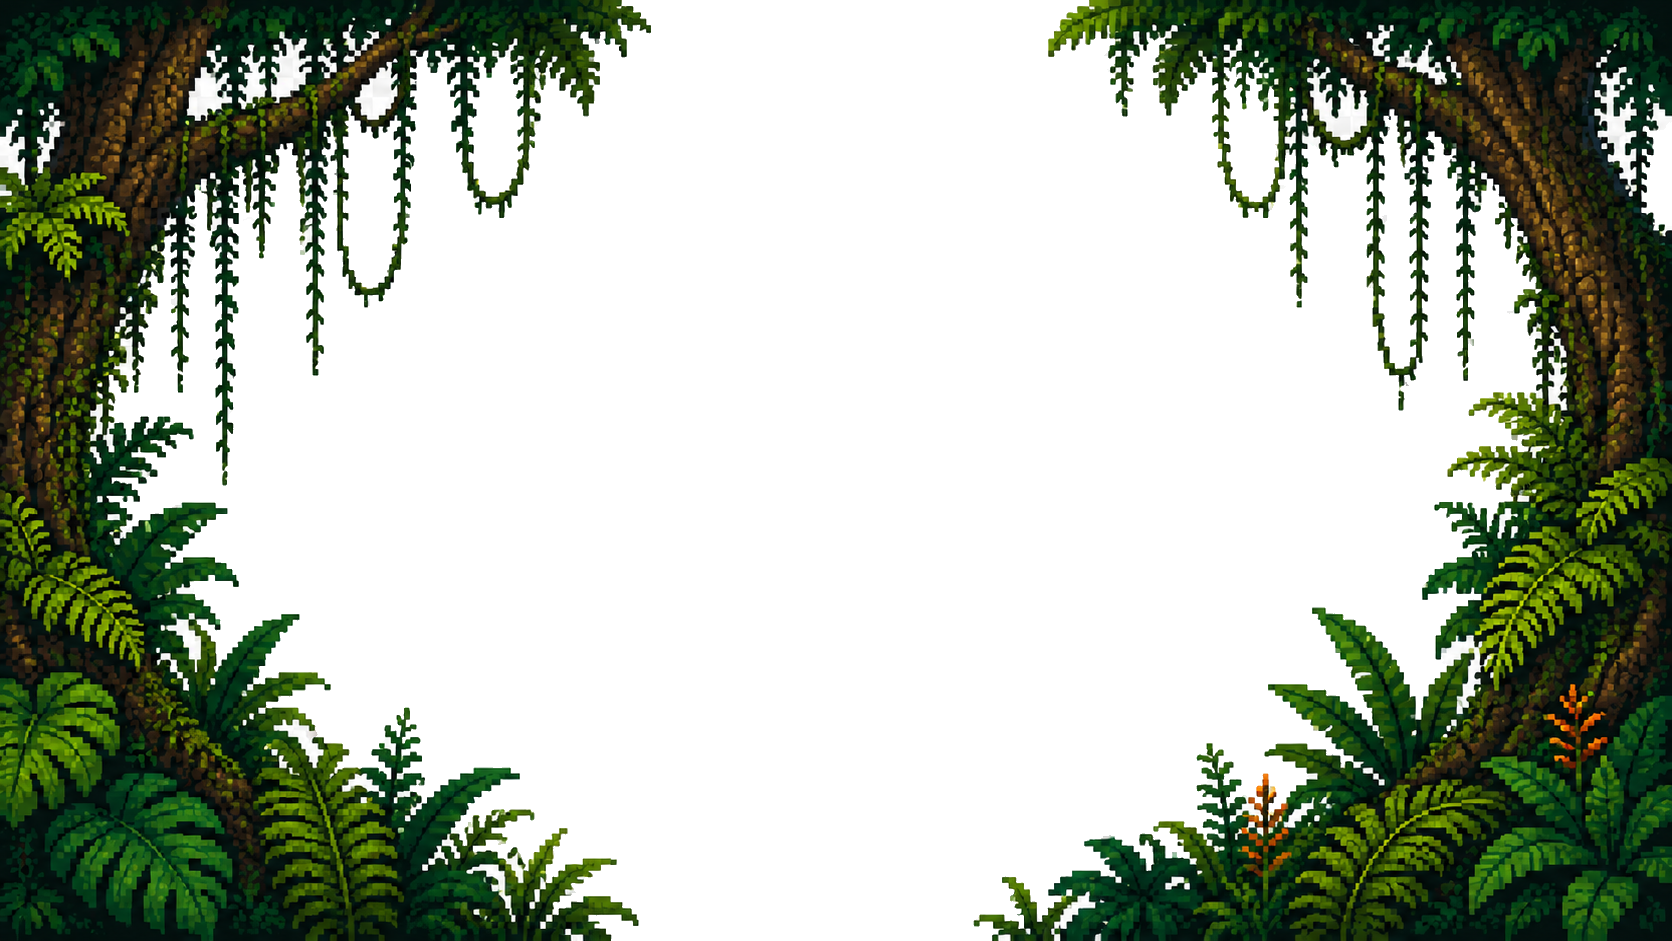
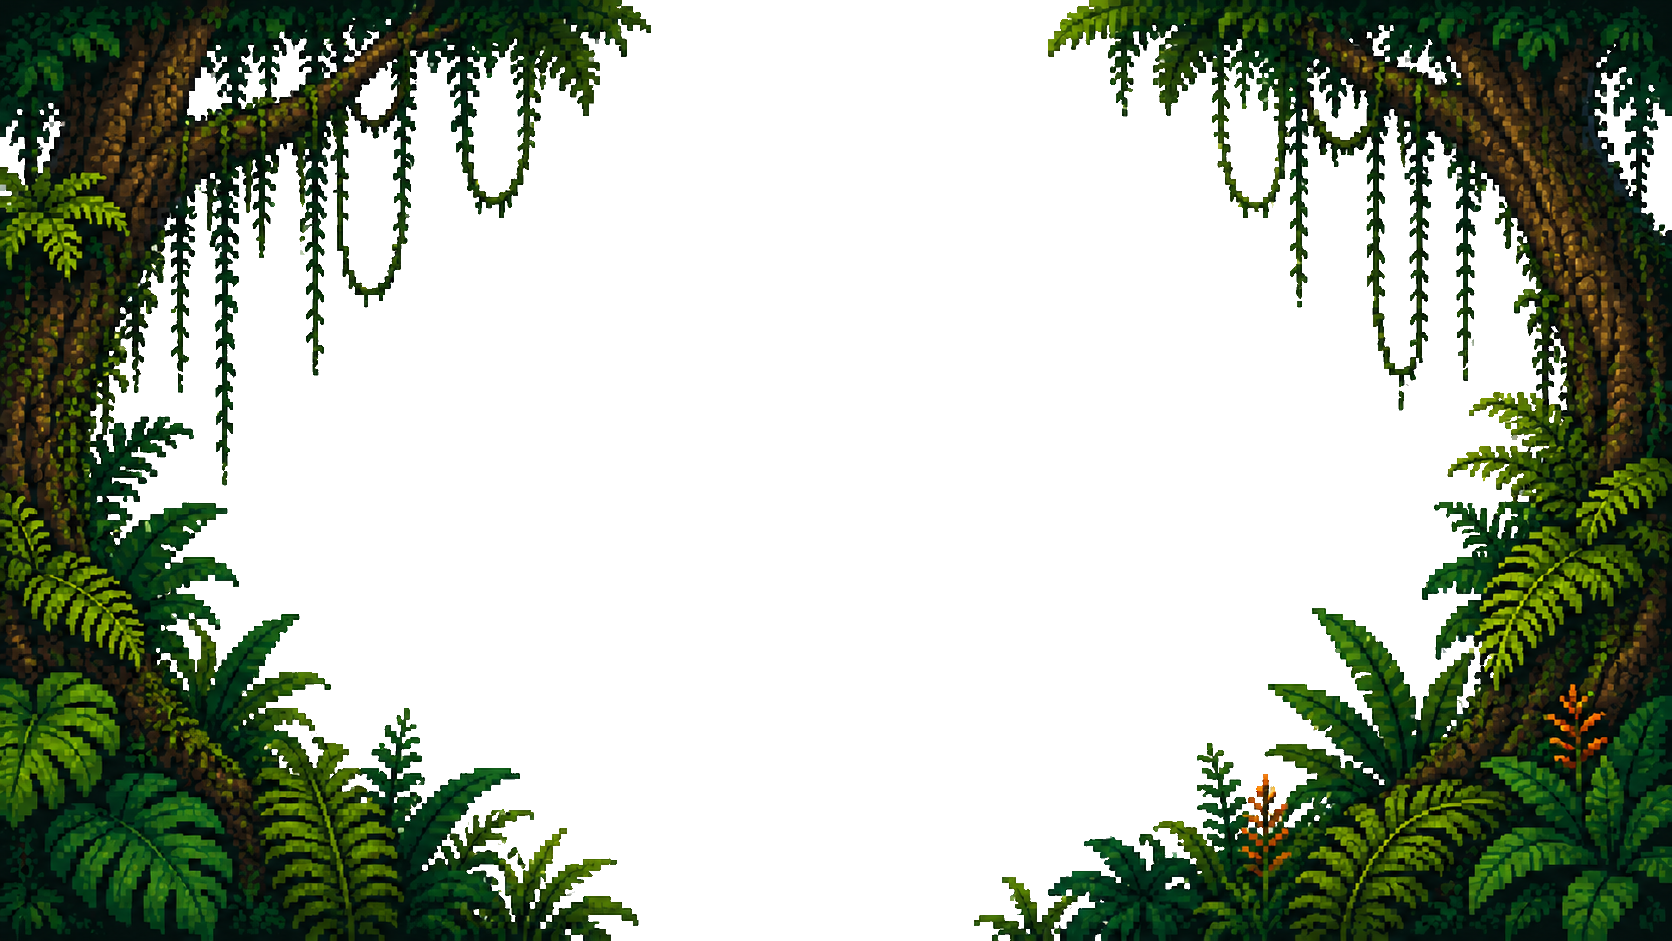
Got rid of missing pixels in level 4

diff --git a/tools/build_dilim.py b/tools/build_dilim.py
@@ -25,6 +25,10 @@ other colour beside it, and a cloud is not. So:
    pixels joined to the flood: whatever a mistake costs, it costs inside one cell.
 5. The pale fringe the checker leaves on dark edges is taken off.
 
+The vegetation-only plates then lose enclosed white matte pockets as well, and have their
+white-composited edge RGB recovered before alpha is snapped to clear/solid. This step is
+never used on the mountain plates: their white clouds are art.
+
 The flat-backed strips are keyed the same way without the grid: a pixel flood from the border
 through the page colour.
 
@@ -111,6 +115,9 @@ CRUMB = 24
 ## An opaque island this much flat checker grey is leftover checker, not art -- up to this size.
 ISLAND_GREY = 0.97
 ISLAND_MAX = 12000
+## These plates contain vegetation/earth, not white clouds. White pockets inside the foliage
+## are baked-in matte too; they need not connect to the outside of the image.
+VEGETATION = {"FG_Details.png", "FG_Ground.png", "FG_Ground2.png"}
 
 
 def load(name: str) -> np.ndarray:
@@ -325,6 +332,51 @@ def without_checker_islands(rgb: np.ndarray, background: np.ndarray, lo: int,
     return background | np.isin(islands, drop)
 
 
+def vegetation_rgba(rgb: np.ndarray, background: np.ndarray) -> np.ndarray:
+    """Remove enclosed white matte and recover leaf-edge RGB from its white composite.
+
+    A border flood alone leaves opaque white gaps between fronds. Deleting those gaps still
+    leaves a pale rim: the delivered RGB already mixed its edge pixels with that white page.
+    Estimate coverage against nearby solid art, undo the white mix, and snap coverage to
+    opaque/clear so the original pixel grid stays crisp. This is never used on cloud plates.
+    """
+    rgb = rgb.astype(np.int16)
+    white = (rgb.min(axis=-1) >= 225) & (np.ptp(rgb, axis=-1) <= 16)
+    background = background | white
+    out = np.dstack([rgb.astype(np.uint8), np.where(background, 0, 255).astype(np.uint8)])
+    # Saturated leaf colors and dark bark/stone are reliable foreground samples, including
+    # fine fronds too narrow for a geometric erosion to leave an interior.
+    distance = ndimage.distance_transform_edt(~background)
+    solid = ~background & (((distance > 2) & ((rgb.min(axis=-1) < 90)
+                                              | (rgb.max(axis=-1) < 180)))
+                            | ((rgb.min(axis=-1) < 35) & (np.ptp(rgb, axis=-1) > 30)))
+    if solid.any():
+        near = distance <= 3
+        ys, xs = np.nonzero(near & ~background & ~solid)
+        indices = ndimage.distance_transform_edt(~solid, return_distances=False,
+                                                return_indices=True)
+        fy, fx = indices[:, ys, xs]
+        close = (fy - ys) ** 2 + (fx - xs) ** 2 <= 16
+        ys, xs, fy, fx = ys[close], xs[close], fy[close], fx[close]
+        foreground = rgb[fy, fx].astype(float)
+        composite = rgb[ys, xs].astype(float)
+        direction = 255.0 - foreground
+        coverage = np.clip(np.sum(direction * (255.0 - composite), axis=-1)
+                           / np.maximum(np.sum(direction ** 2, axis=-1), 1), 0, 1)
+        predicted = 255.0 - coverage[:, None] * direction
+        fits = np.max(np.abs(predicted - composite), axis=-1) <= 20
+        # A grey stone highlight can fit the same white/dark line as matte. Keep dark
+        # authored pixels opaque rather than punching new holes in rocks or leaf shadows.
+        drop = fits & (coverage < 0.55) & (composite.max(axis=-1) >= 180)
+        out[ys[drop], xs[drop], 3] = 0
+        recover = fits & (coverage >= 0.55) & (coverage < 0.98)
+        alpha = coverage[recover, None]
+        unmixed = (composite[recover] - (1.0 - alpha) * 255.0) / alpha
+        out[ys[recover], xs[recover], :3] = np.clip(np.rint(unmixed), 0, 255).astype(np.uint8)
+    out[out[..., 3] == 0] = 0
+    return out
+
+
 def keyed(name: str, method: str) -> Image.Image:
     rgb = load(name)
     if rgb.shape[:2] != (PLATE[1], PLATE[0]):
@@ -338,6 +390,8 @@ def keyed(name: str, method: str) -> Image.Image:
     else:
         page = int(np.median(np.concatenate([rgb[:3].reshape(-1, 3), rgb[-3:].reshape(-1, 3)])))
         background = without_fringe(rgb, flat_key(rgb), [page])
+    if name in VEGETATION:
+        return Image.fromarray(vegetation_rgba(rgb, background), "RGBA")
     alpha = np.where(background, 0, 255).astype(np.uint8)
     out = np.dstack([rgb.astype(np.uint8), alpha])
     out[background] = 0

diff --git a/tests/test_build_dilim.py b/tests/test_build_dilim.py
@@ -68,6 +68,46 @@ class FlatKeyTest(unittest.TestCase):
         self.assertFalse(background[85:115, 60:340].any())
 
 
+class VegetationMatteTest(unittest.TestCase):
+    def test_enclosed_white_matte_goes_but_dark_leaf_interiors_stay(self) -> None:
+        rgb = np.full((60, 120, 3), 249, np.int16)
+        rgb[10:50, 10:110] = (20, 80, 30)
+        rgb[25:35, 50:60] = 255  # background visible between fronds, enclosed by the plant
+        rgb[20:24, 30:40] = (0, 18, 22)  # genuine dark leaf shadow
+        flood = dilim.flat_key(rgb)
+        self.assertFalse(flood[30, 55], "fixture must reproduce a pocket the old flood missed")
+        result = dilim.vegetation_rgba(rgb, flood)
+        self.assertEqual(int(result[30, 55, 3]), 0)
+        self.assertEqual(result[21, 33].tolist(), [0, 18, 22, 255])
+        self.assertEqual(result[40, 90].tolist(), [20, 80, 30, 255])
+
+    def test_white_composited_edges_are_cleaned_without_blurring_the_leaf(self) -> None:
+        rgb = np.full((60, 120, 3), 255, np.int16)
+        leaf = np.array([20, 80, 30])
+        rgb[10:50, 10:110] = leaf
+        rgb[10:50, 9] = np.rint(leaf * 0.25 + 255 * 0.75)
+        rgb[10:50, 10] = np.rint(leaf * 0.75 + 255 * 0.25)
+        result = dilim.vegetation_rgba(rgb, dilim.flat_key(rgb))
+        self.assertEqual(int(result[30, 9, 3]), 0, "the mostly-white halo should not be solid")
+        self.assertEqual(int(result[30, 10, 3]), 255, "the leaf's edge must survive")
+        self.assertLessEqual(np.abs(result[30, 10, :3].astype(int) - leaf).max(), 2)
+        self.assertEqual(result[30, 11].tolist(), [20, 80, 30, 255])
+        self.assertEqual(set(np.unique(result[..., 3])), {0, 255}, "no soft alpha or blur")
+
+    def test_supplied_vegetation_no_longer_keeps_white_pockets(self) -> None:
+        for name, point in [("FG_Details.png", (1602, 146)), ("FG_Ground2.png", (752, 416)),
+                            ("FG_Ground.png", (820, 384))]:
+            picture = dilim.keyed(name, "checker" if name == "FG_Details.png" else "flat")
+            self.assertEqual(picture.getpixel(point)[3], 0, f"{name}: leftover matte at {point}")
+
+    def test_a_grey_stone_highlight_is_not_mistaken_for_white_matte(self) -> None:
+        rgb = np.full((60, 120, 3), 255, np.int16)
+        rgb[10:50, 10:110] = (40, 40, 40)
+        rgb[10:50, 10] = (150, 150, 150)
+        result = dilim.vegetation_rgba(rgb, dilim.flat_key(rgb))
+        self.assertEqual(result[30, 10].tolist(), [150, 150, 150, 255])
+
+
 class DeliveryTest(unittest.TestCase):
     def test_every_delivered_file_is_claimed(self) -> None:
         claimed = {source for source, _ in dilim.PLATES.values()} | dilim.REFERENCE_ONLY \

diff --git a/LEVEL_4.md b/LEVEL_4.md
@@ -328,13 +328,26 @@ from the source pixels, while keeping the outside transparent and the ground str
 `run_moonlit_foliage_probe` covers intact fern shadows, opaque ground, real decoration
 placement outside mechanic areas, and draw order against Nuno, placed foes and spawned aswang.
 
+The delivered forest frame and both terrace backdrop plates also had opaque white matte
+pockets between their leaves and pale resampling fringes. `build_dilim.py` now removes
+enclosed white matte on those three vegetation plates and unmattes nearby edge pixels before
+snapping alpha to opaque/clear. The cloud plates keep their grid-aware extraction; their
+white highlights are real art. Plate dimensions and parallax registration remain unchanged.
+`tests/test_build_dilim.py` covers closed matte pockets, real dark leaf shadows, white-composited
+edges and known problem pixels on the supplied plates.
+
 The tikbalang fork's three floating shelves now use `ground_moonlit/platform.png`, a
 native-pixel moss lip and stone course cut from the same ground texture by
 `build_moonlit_ground.gd`. `MakilingTerrain2D.branch_texture` is an optional visual override;
-the Fork keeps its three positions, widths, 18 px one-way bodies and moonlight rims.
+the Fork keeps its three positions, widths and 18 px one-way bodies.
 Only this Fork opts in, with white tint for the already moonlit art.
-Its upper corners are clipped in two small pixel steps for a gently rounded moss lip;
-the moonlight flecks are inset to follow the rounded top. Collision stays rectangular.
+Its upper corners are clipped in two small pixel steps for a gently rounded moss lip.
+Collision stays rectangular.
+
+**The dotted moonlight overlay was removed (2026-11-04, requested).** The white flecks
+across ground and floating shelves were drawn above the darkness by `MakilingTerrain2D`,
+not missing pixels in the artwork. Those extra rim layers are gone; the moonlit moss texture
+now supplies the continuous visible edge. Earlier build notes describing rims are historical.
 
 ## The old way over the ravine fades (2026-11-01)
 

diff --git a/LEVEL4_Mt.Makiling/authored/moonlit_ground/README.md b/LEVEL4_Mt.Makiling/authored/moonlit_ground/README.md
@@ -43,9 +43,15 @@ independent scene layers using `moonlit_foliage_2d.gd`. Bushes draw behind the g
 on the face, and both below Nuno's spirit and every creature. Placement checks the complete
 sprite bounds against existing encounter trigger volumes (including the finale), hazards,
 supplies and ink jars; those places stay free of decoration. Other levels retain their
-existing plant spacing and tints. Terrain collision, branches and moonlight rims retain
-their existing roles. `run_moonlit_foliage_probe` guards the export and visibility fixes.
+existing plant spacing and tints. Terrain collision and branches retain their existing roles.
+The dotted rim overlay has been removed: the moss artwork supplies its own continuous edge.
+`run_moonlit_foliage_probe` guards the export and visibility fixes.
 
 Windowed review: `res://tests/run_visual_moonlit_foliage.gd` photographs an intact quiet-path
 bush, Nuno at his mound, and two spawned aswang in the finale. Reviewed captures are saved as
 `foliage_fixed.png`, `nuno_clear.png` and `aswang_clear.png` beside this file.
+
+The background's own foliage is cleaned by `tools/build_dilim.py`, separately from this
+ground/plant cutter. Its three vegetation plates lose enclosed white matte and white edge
+contamination; mountain clouds retain their original extraction. `background_fixed.png`
+and `background_start.png` show that cleanup under the level's real lighting.
